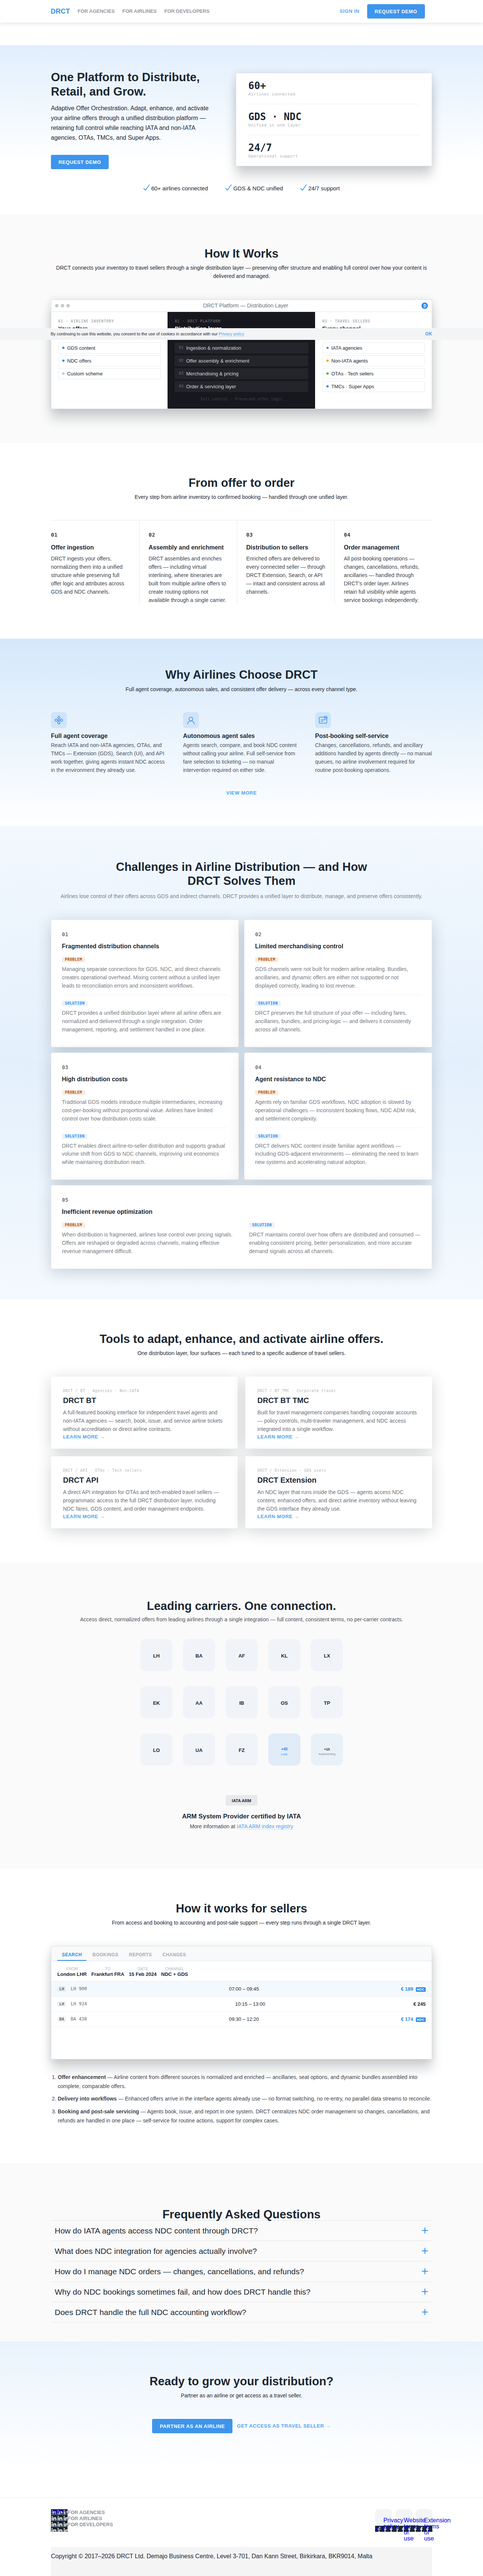
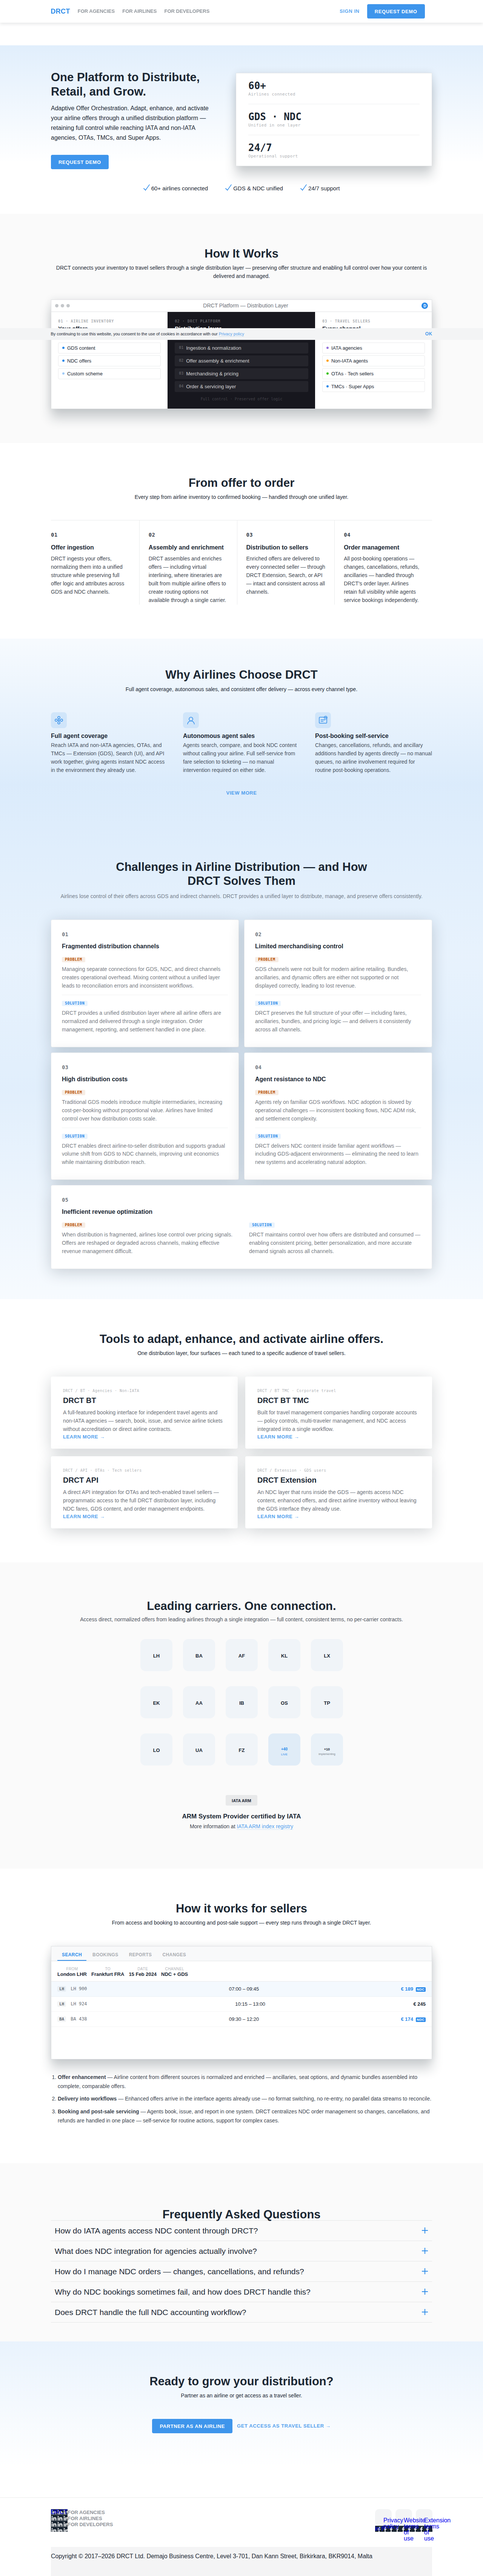
Merge blocks 4+5 into shared gradient surface for visual continuity
Wraps "Why Airlines Choose DRCT" and "Challenges" sections in a
single outer gradient container. Individual section backgrounds
removed (set to transparent) so the blue wash flows uninterrupted
across both sections as one continuous DRCT surface.

https://claude.ai/code/session_013LUnjKGkt44i95szrsJKKc

Changed region(s): [[0.0, 0.2498, 1.0, 0.3435]]

diff --git a/blocks/index.html b/blocks/index.html
@@ -460,11 +460,16 @@
 </div>
 
 <!-- ================================================================
+     SHARED GRADIENT SURFACE — blocks 4 + 5 flow as one continuous section
+================================================================ -->
+<div style="background-image: linear-gradient(180deg, rgba(42,138,234,0.04) 0%, rgba(42,138,234,0.17) 22%, rgba(42,138,234,0.11) 48%, rgba(42,138,234,0.14) 68%, rgba(42,138,234,0.04) 100%);">
+
+<!-- ================================================================
      BLOCK 4 — WHY DRCT (6 features)
      Components: .benefits, .benefits__container, .benefits__list, .benefit__item × 6
      JS: main.js hides items 3–5, #benefitsToggle shows/hides them
 ================================================================ -->
-<section class="benefits">
+<section class="benefits" style="background: transparent;">
   <div class="benefits__container">
     <h2>Why Airlines Choose DRCT</h2>
     <p>Full agent coverage, autonomous sales, and consistent offer delivery — across every channel type.</p>
@@ -514,10 +519,10 @@
 </section>
 
 <!-- ================================================================
-     BLOCK 5 — PROBLEMS WE SOLVE (dark)
-     Components: .landing-new (near-black), .how heading, .prob-wrap/.prob-card
+     BLOCK 5 — PROBLEMS WE SOLVE
+     Components: .landing-new, .how heading, .prob-wrap/.prob-card
 ================================================================ -->
-<div class="landing-new loaded" style="background-image: linear-gradient(180deg, rgba(42,138,234,0.06) 0%, rgba(42,138,234,0.13) 50%, rgba(42,138,234,0.05) 100%);">
+<div class="landing-new loaded" style="background: transparent;">
   <div class="landing-new__body">
     <section class="how" style="padding-bottom: 80px;">
       <h2 style="max-width: 680px; margin: 0 auto 0; line-height: 1.2;">Challenges in Airline Distribution — and How DRCT Solves Them</h2>
@@ -584,6 +589,8 @@
     </section>
   </div>
 </div>
+
+</div><!-- /shared gradient surface blocks 4+5 -->
 
 <!-- ================================================================
      BLOCK 6 — PRODUCT OVERVIEW
